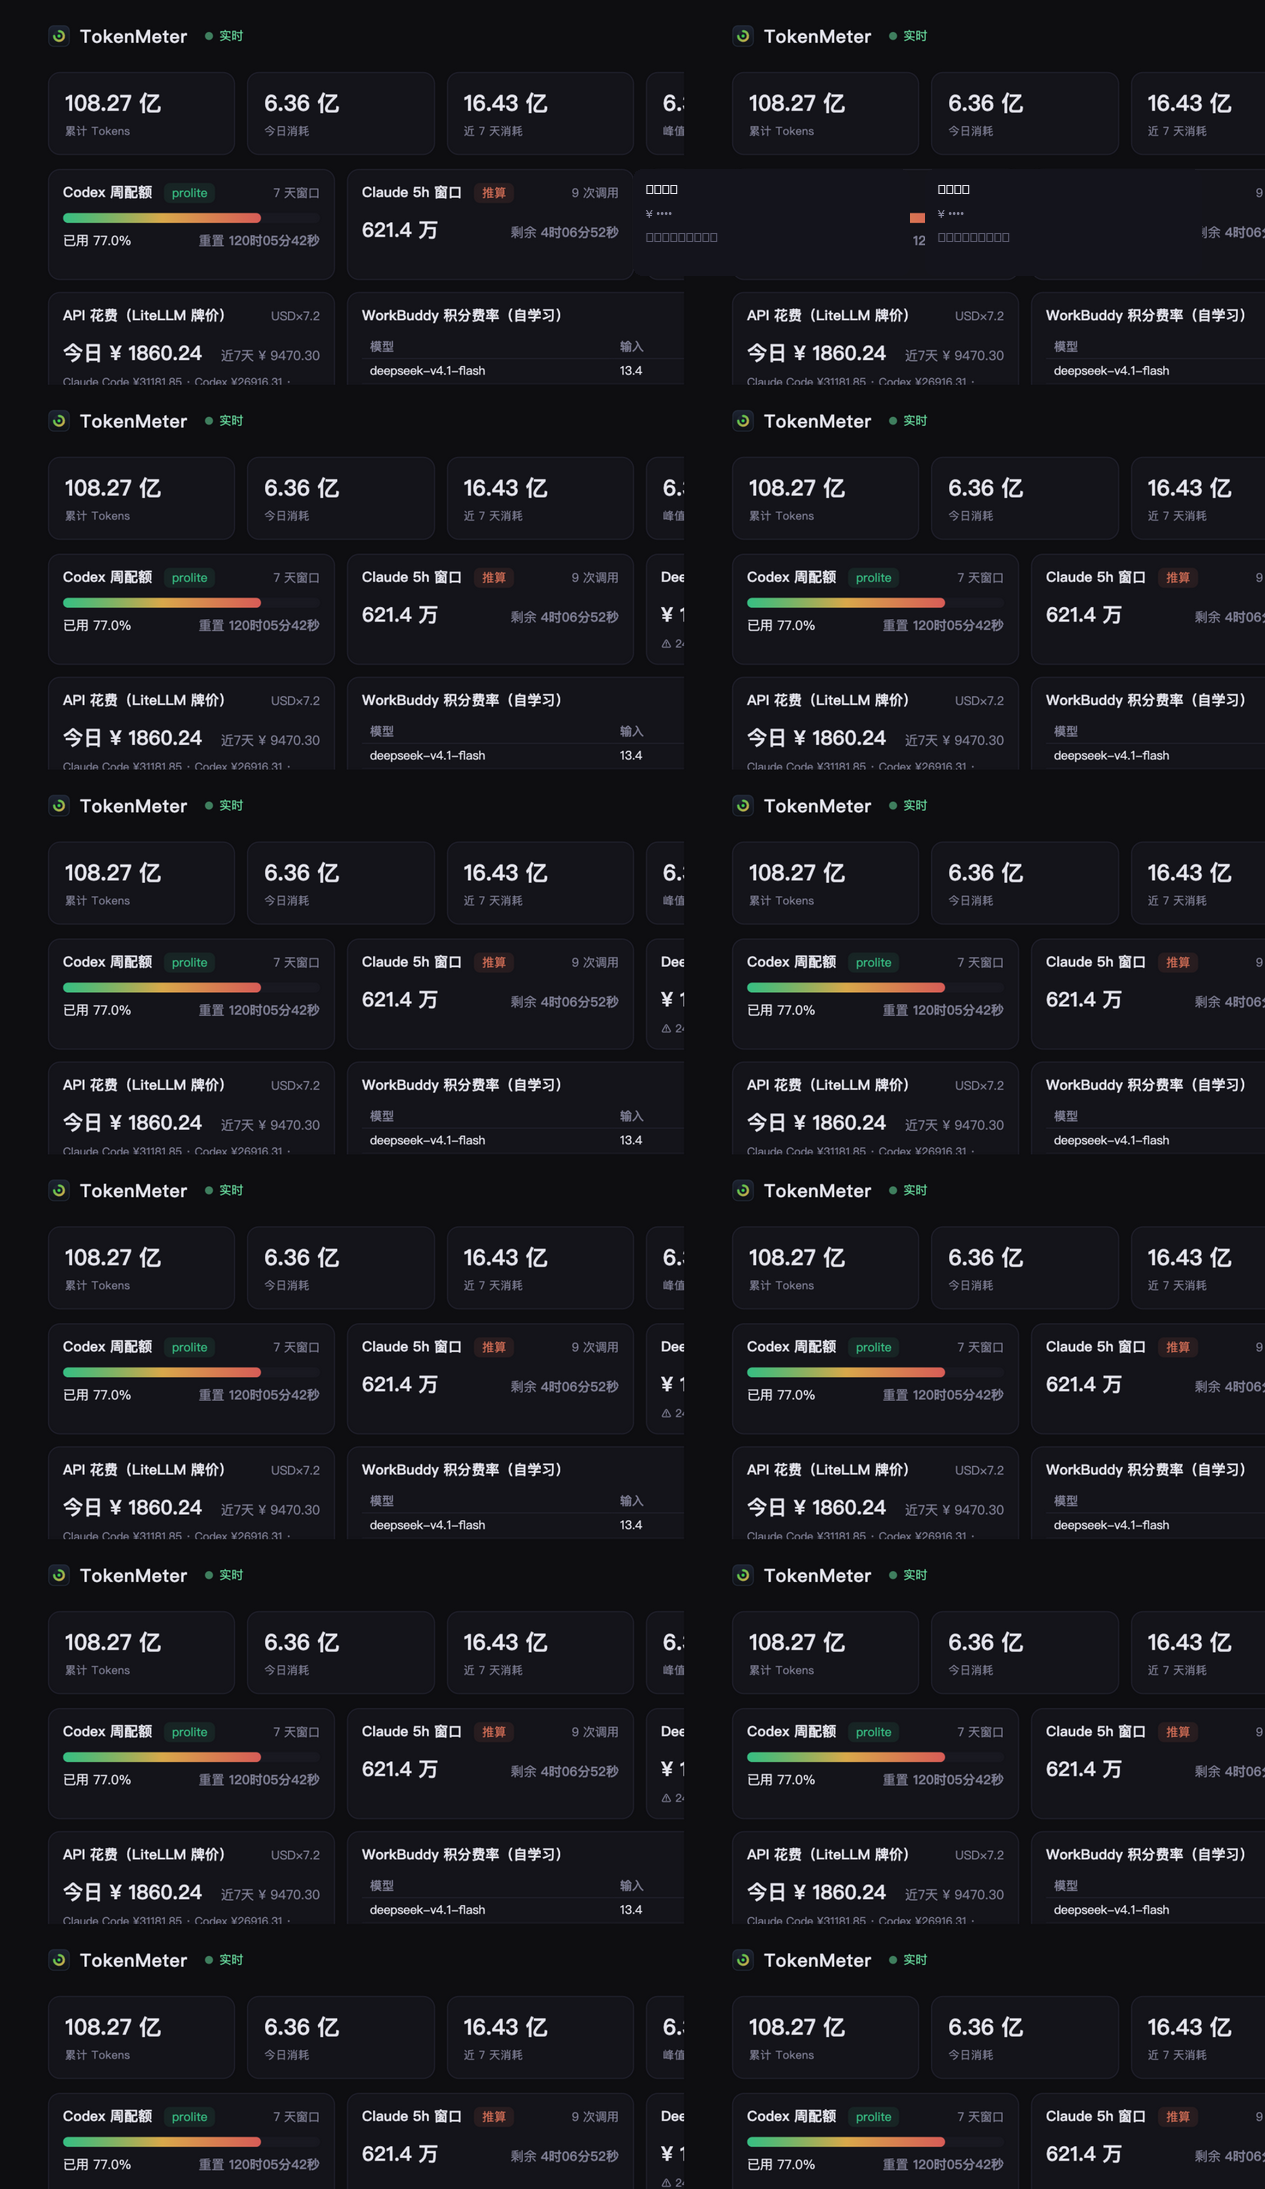
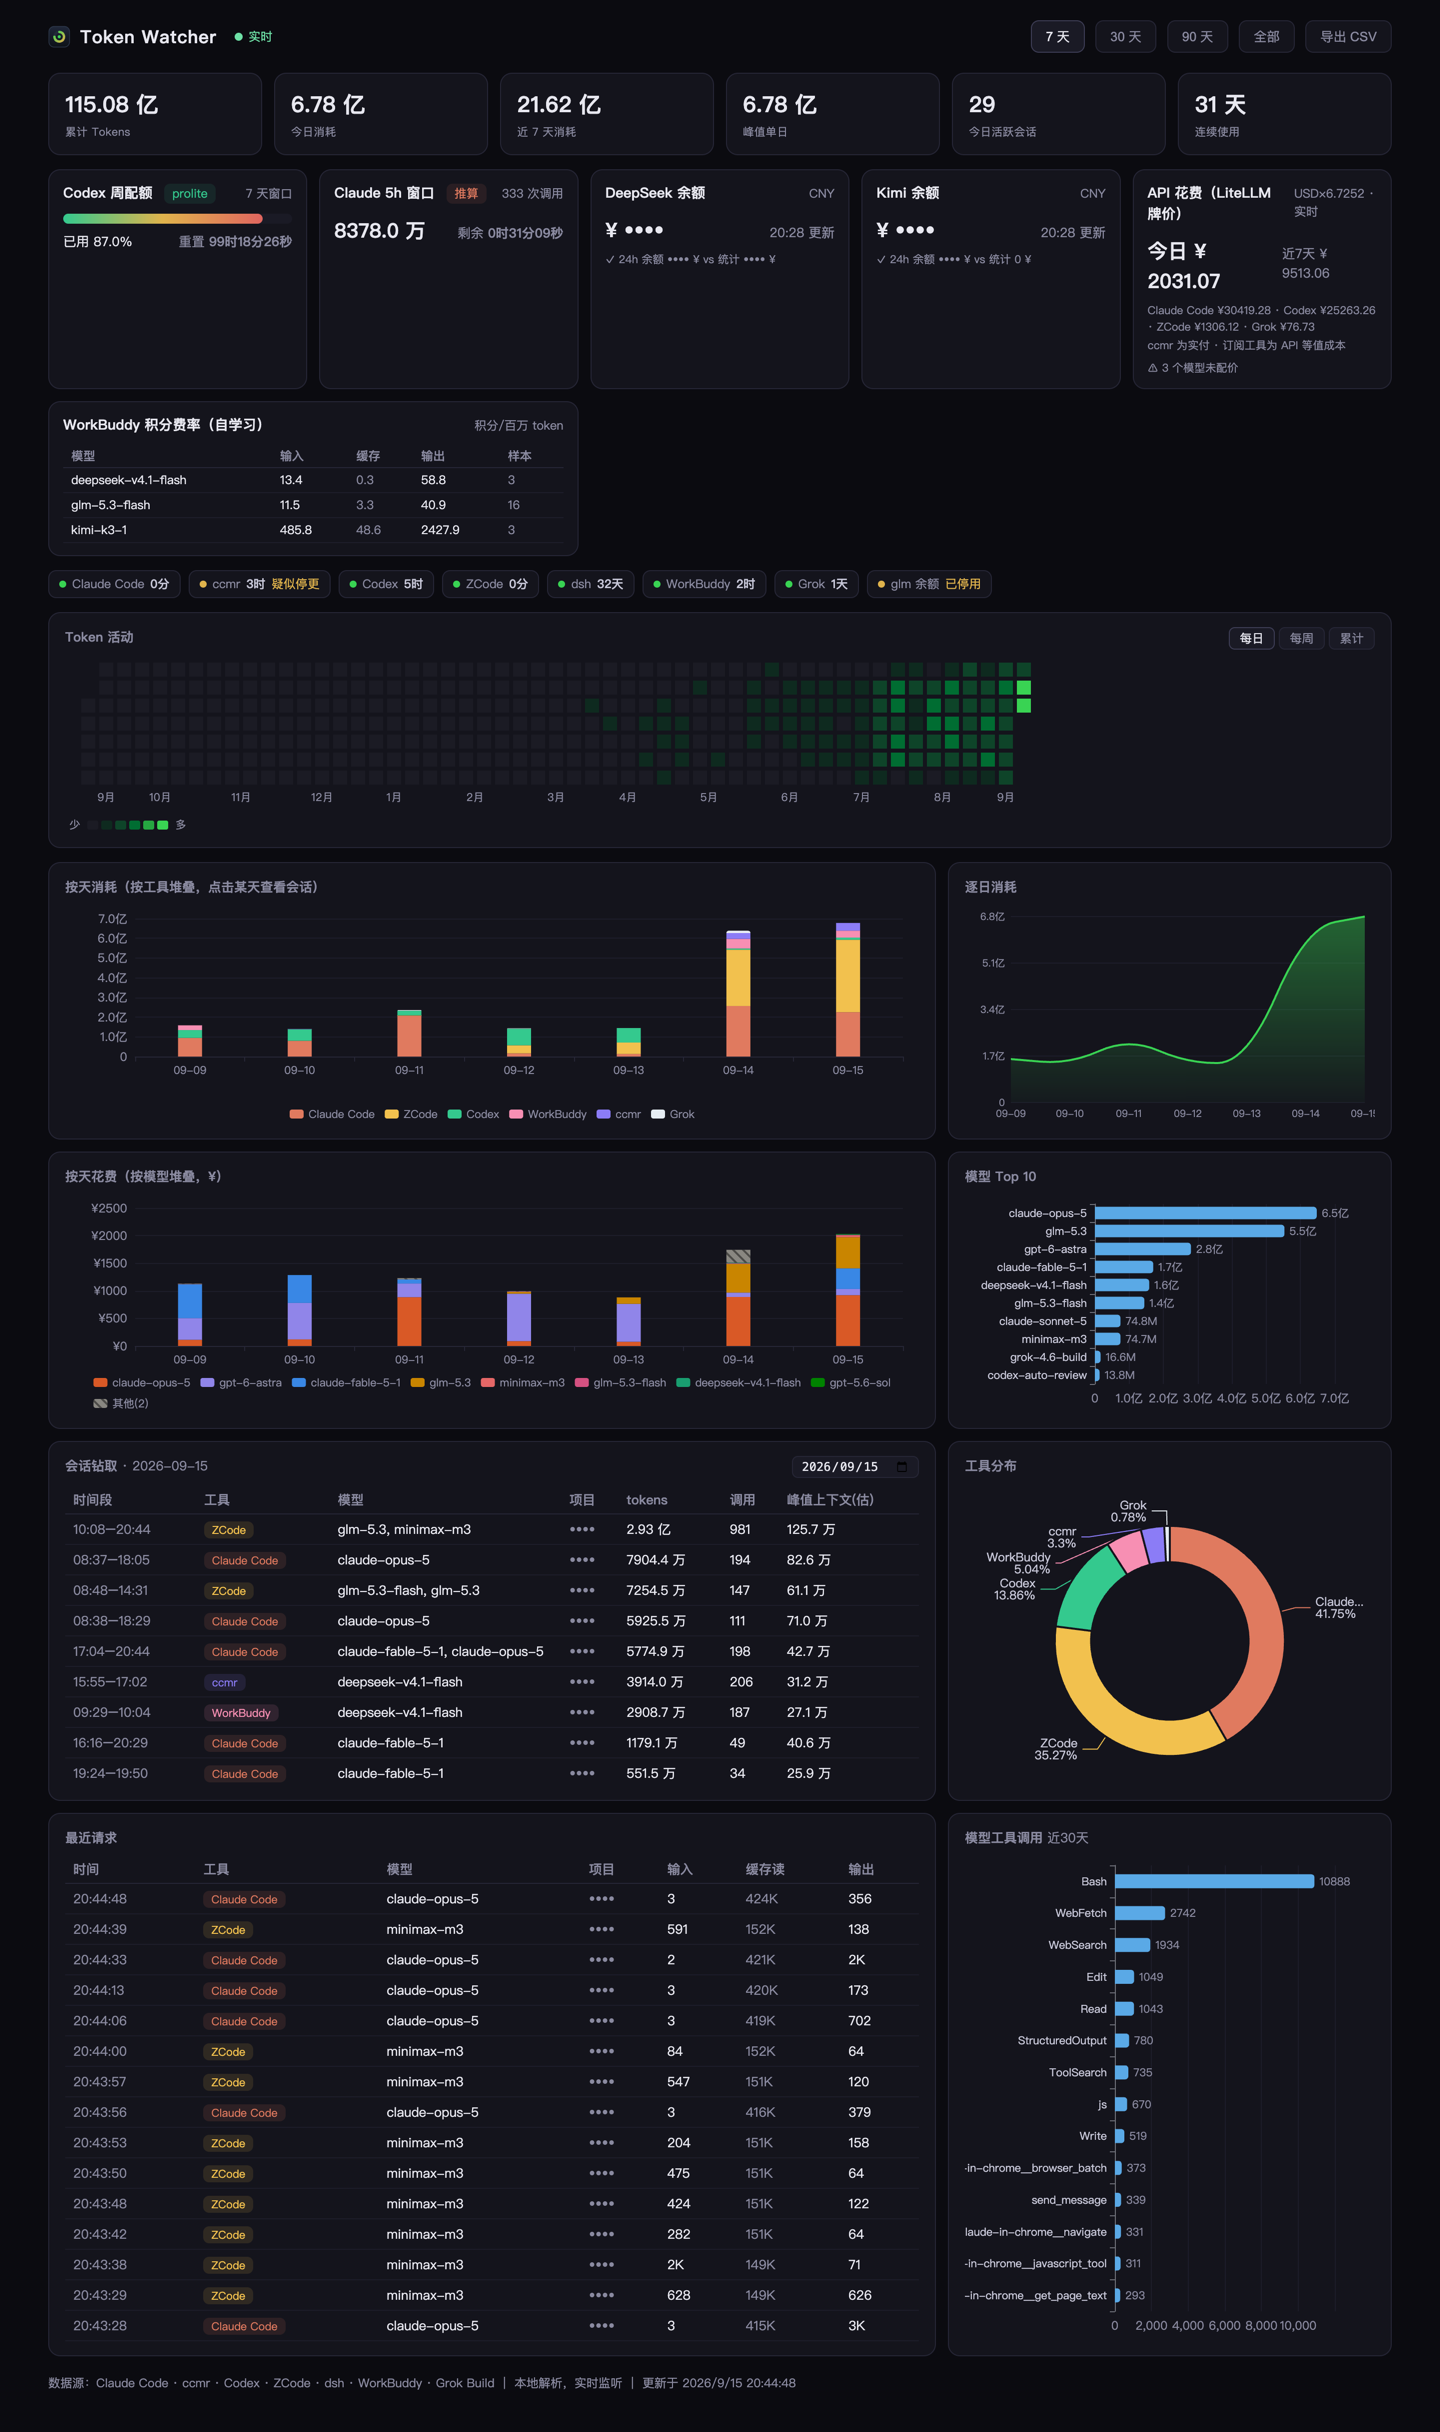
feat: 命令名统一为 tokenwatcher，并换掉平铺重复的门面截图
命令名：README 里写的是 tokenmeter，与产品名 Token Watcher 对不上。主命令改为
tokenwatcher，bin/tokenmeter.js 一并改名为 bin/tokenwatcher.js；tokenmeter 作为别名
保留，1.2 及更早版本装过的人不会断。数据目录 ~/.tokenmeter 暂未改动——那需要迁移
存量数据库，留待单独处理。

截图：docs/screenshot.png 原本是同一块面板 2×6 平铺的重复图，右侧被裁，品牌名还停在
更名前的 TokenMeter。改为用无头 Chrome + CDP 重新抓的整页图（1440×2432），等卡片与
图表真正渲染完成再截，不靠固定延时。

抓图时把厂商余额与项目名都脱敏成 ••••：整页图比旧的顶部截图多暴露了会话表与最近请求
里的真实项目名，其中还含 ~/Users/<用户名>/... 路径片段，不适合进公开仓库与 npm 页面。
README 的截图说明同步改成"厂商余额与项目名已脱敏"。

顺带修正 README 里两处已过时的表述：测试从三层变成五层（多了 import 冒烟与前端纯函数
行为层）且已有 CI；Roadmap 去掉已完成的"回归测试 + CI"，换成订阅 ROI、项目维度与
配置文件三项。

diff --git a/bin/tokenwatcher.js b/bin/tokenwatcher.js
@@ -3,9 +3,11 @@
  * Token Watcher — 本地多源 token 用量与配额面板
  *
  * 用法：
- *   tokenmeter scan          全量/增量扫描一次并退出
- *   tokenmeter serve [--port 8787]   扫描 + 常驻服务 + 实时监听（默认命令）
- *   tokenmeter today         打印今日与累计用量摘要
+ *   tokenwatcher scan          全量/增量扫描一次并退出
+ *   tokenwatcher serve [--port 8787]   扫描 + 常驻服务 + 实时监听（默认命令）
+ *   tokenwatcher today         打印今日与累计用量摘要
+ *
+ * tokenmeter 为旧命令名，仍作为别名保留（1.2 及更早版本装的是这个名字）。
  */
 import { existsSync, renameSync } from 'node:fs';
 import { join } from 'node:path';
@@ -23,7 +25,7 @@ if (existsSync(LEGACY) && !existsSync(NEWDIR)) renameSync(LEGACY, NEWDIR);
 const LEGACY_DB = join(NEWDIR, 'token-stats.db');
 if (existsSync(LEGACY_DB) && !existsSync(DB_PATH)) renameSync(LEGACY_DB, DB_PATH);
 
-const log = (msg) => console.log(`[tokenmeter] ${msg}`);
+const log = (msg) => console.log(`[token-watcher] ${msg}`);
 
 /**
  * 常驻服务的兜底：本地只读面板最坏结果是数字变陈旧，不该因为某一轮解析/请求出错就整个消失。

diff --git a/README.md b/README.md
@@ -4,7 +4,7 @@
 
 ![Token Watcher](https://raw.githubusercontent.com/luwill/token-watcher/main/docs/screenshot.png)
 
-> 截图为真实运行数据（厂商余额已脱敏）。
+> 截图为真实运行数据（厂商余额与项目名已脱敏为 ••••）。
 
 ## 支持的工具（7 源）
 
@@ -37,14 +37,14 @@ npm run serve
 
 平台支持：**macOS 全功能验证**（含菜单栏 App 与 launchd）；Linux 理论可用（Node 20+ 支持 recursive watch），未完整测试；Windows 未测试。菜单栏 App 为 macOS 专属。
 
-开发与测试：`npm test` 运行三层回归——语法检查、静态断言（渲染函数存在性/DOM id 一致性）、端到端冒烟（fixtures 黄金数字 + 幂等 + API 结构），零依赖、可跑在 CI。
+开发与测试：`npm test` 运行五层回归——语法检查、import 冒烟（拦模块级错误，`node --check` 看不见）、静态断言、前端纯函数行为、端到端冒烟（fixtures 黄金数字 + 幂等 + API 结构）。零依赖、离线运行，GitHub Actions 上跑 macOS/Ubuntu × Node 22.13/24 矩阵。
 
 其他命令：
 
 ```bash
-tokenmeter today       # 终端速览今日消耗
-tokenmeter scan        # 只扫描一次
-tokenmeter serve --port 9000
+tokenwatcher today       # 终端速览今日消耗
+tokenwatcher scan        # 只扫描一次
+tokenwatcher serve --port 9000
 npm run install-agent  # launchd 开机自启（KeepAlive 崩溃自拉起）
 npm run bar            # macOS 菜单栏胶囊（需 npm run build-bar 编译）
 ```
@@ -93,9 +93,10 @@ Token Watcher 是**非官方**工具，解析的均为各产品留在本地的**
 ## Roadmap
 
 - 跨平台验证（Linux/Windows）
-- fixtures 回归测试 + CI
+- 订阅 ROI 视角：API 等值成本 vs 订阅实付
+- 按项目维度的用量与花费
+- 配置文件（数据目录 / 端口 / 告警阈值）
 - i18n / 英文 README
-- 会话内容级钻取（如需）
 
 ## License
 
